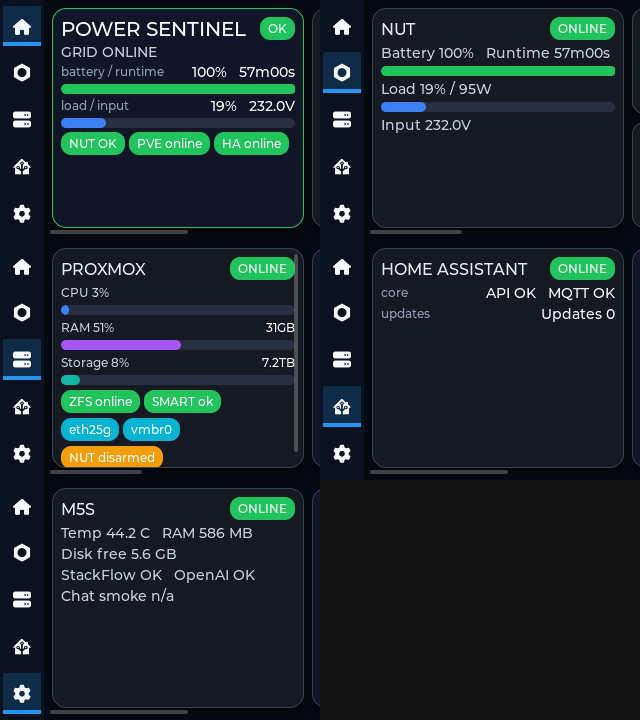
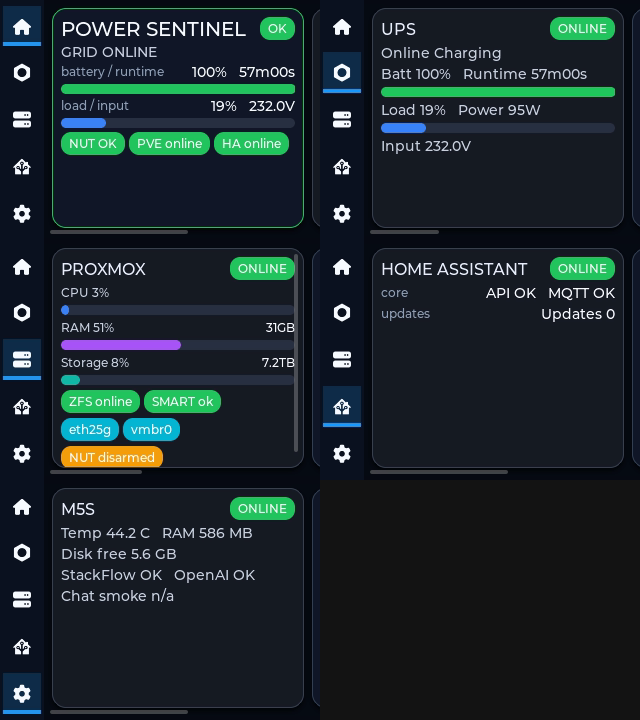
feat: refine NUT tab as mini Nutify carousel
- Split NUT UI into UPS, BATTERY, POWER, and PROTECTION cards
- Render protection client rows dynamically from shutdown.nut_clients
- Keep reachable_via_upsc visually distinct from armed/protected
- Update LVGL fixture, render baselines, and UI contract checks

Verification:
- python3 tools/check_core_s3_ui.py
- python3 tools/run_tests.py
- uvx platformio run -d firmware/core-s3-display
- assets/lvgl-spike/render-via-doomtrain.sh

Changed region(s): [[0.5938, 0.0306, 1.0, 0.2139], [0.6875, 0.3056, 0.7188, 0.3361]]

diff --git a/firmware/core-s3-display/src/main.cpp b/firmware/core-s3-display/src/main.cpp
@@ -945,8 +945,9 @@ const char *nutClientDisplayState(const NutClientCard &client) {
 
 lv_color_t nutClientStateColor(const NutClientCard &client) {
   if (!client.available || strcmp(client.state, "unavailable") == 0) return lv_palette_main(LV_PALETTE_RED);
-  if (client.armed) return lv_palette_main(LV_PALETTE_GREEN);
-  if (strcmp(client.state, "reachable_via_upsc") == 0 || strcmp(client.state, "configured_not_connected") == 0 || strcmp(client.state, "disarmed") == 0) return lv_palette_main(LV_PALETTE_ORANGE);
+  if (client.armed || strcmp(client.state, "connected_as_upsmon") == 0) return lv_palette_main(LV_PALETTE_GREEN);
+  if (strcmp(client.state, "reachable_via_upsc") == 0) return lv_palette_main(LV_PALETTE_BLUE);
+  if (strcmp(client.state, "configured_not_connected") == 0 || strcmp(client.state, "disarmed") == 0) return lv_palette_main(LV_PALETTE_ORANGE);
   return lv_palette_main(LV_PALETTE_GREY);
 }
 
@@ -1144,55 +1145,70 @@ void renderNut() {
                         (!state.ups.available ? lv_palette_main(LV_PALETTE_GREY) :
                          (state.ups.lowBattery ? lv_palette_main(LV_PALETTE_RED) :
                           (state.ups.onBattery ? lv_palette_main(LV_PALETTE_ORANGE) : lv_palette_main(LV_PALETTE_GREEN))));
-  lv_obj_t *card = makeStatusCard(nutTab, "NUT", upsBadge, upsColor);
   char line[128];
   char battery[24];
   char runtime[24];
-  snprintf(line, sizeof(line), "Battery %s   Runtime %s",
-           intOrUnknown(state.ups.batteryPercent, battery, sizeof(battery), "%"),
-           runtimeText(state.ups.runtimeSeconds, runtime, sizeof(runtime)));
-  addLine(card, line);
-  addPercentBar(card, state.ups.batteryPercent, state.ups.lowBattery ? lv_palette_main(LV_PALETTE_RED) : lv_palette_main(LV_PALETTE_GREEN));
   char load[24];
   char watts[24];
   char inputV[24];
-  snprintf(line, sizeof(line), "Load %s / %s",
+  char outputV[24];
+  char batteryV[24];
+
+  lv_obj_t *ups = makeStatusCard(nutTab, "UPS", upsBadge, upsColor);
+  addLine(ups, state.offline ? "Stale Data" : (!state.ups.available ? "No Communication" : (state.ups.lowBattery ? "Low Battery" : (state.ups.onBattery ? "On Battery" : "Online Charging"))));
+  snprintf(line, sizeof(line), "Batt %s   Runtime %s",
+           intOrUnknown(state.ups.batteryPercent, battery, sizeof(battery), "%"),
+           runtimeText(state.ups.runtimeSeconds, runtime, sizeof(runtime)));
+  addLine(ups, line);
+  addPercentBar(ups, state.ups.batteryPercent, state.ups.lowBattery ? lv_palette_main(LV_PALETTE_RED) : lv_palette_main(LV_PALETTE_GREEN));
+  snprintf(line, sizeof(line), "Load %s   Power %s",
            intOrUnknown(state.ups.loadPercent, load, sizeof(load), "%"),
            intOrUnknown(state.ups.loadW, watts, sizeof(watts), "W"));
-  addLine(card, line);
-  addPercentBar(card, state.ups.loadPercent, lv_palette_main(LV_PALETTE_BLUE));
+  addLine(ups, line);
+  addPercentBar(ups, state.ups.loadPercent, lv_palette_main(LV_PALETTE_BLUE));
   snprintf(line, sizeof(line), "Input %s", floatOrUnknown(state.ups.inputVoltage, inputV, sizeof(inputV), "V"));
-  addLine(card, line);
+  addLine(ups, line);
 
-  lv_obj_t *clientsPage = lv_obj_create(nutTab);
-  stylePanel(clientsPage, lv_color_hex(0x111827), lv_color_hex(0x394152));
-  lv_obj_set_style_pad_all(clientsPage, 0, 0);
-  lv_obj_set_style_pad_gap(clientsPage, 8, 0);
-  lv_obj_set_style_border_width(clientsPage, 0, 0);
-  lv_obj_set_style_bg_opa(clientsPage, LV_OPA_TRANSP, 0);
-  lv_obj_set_style_shadow_width(clientsPage, 0, 0);
-  lv_obj_set_scrollbar_mode(clientsPage, LV_SCROLLBAR_MODE_OFF);
+  lv_obj_t *batteryCard = makeCard(nutTab, "BATTERY");
+  snprintf(line, sizeof(line), "Battery Charge %s", intOrUnknown(state.ups.batteryPercent, battery, sizeof(battery), "%"));
+  addLine(batteryCard, line);
+  addPercentBar(batteryCard, state.ups.batteryPercent, state.ups.lowBattery ? lv_palette_main(LV_PALETTE_RED) : lv_palette_main(LV_PALETTE_GREEN));
+  snprintf(line, sizeof(line), "Runtime Remaining %s", runtimeText(state.ups.runtimeSeconds, runtime, sizeof(runtime)));
+  addLine(batteryCard, line);
+  snprintf(line, sizeof(line), "Battery Voltage %s", floatOrUnknown(state.ups.batteryVoltage, batteryV, sizeof(batteryV), "V"));
+  addLine(batteryCard, line);
+  snprintf(line, sizeof(line), "Battery Status %s", state.ups.lowBattery ? "LOW" : (state.ups.available ? "OK" : "UNKNOWN"));
+  addLine(batteryCard, line);
+
+  lv_obj_t *powerCard = makeCard(nutTab, "POWER");
+  snprintf(line, sizeof(line), "Power Usage %s", intOrUnknown(state.ups.loadW, watts, sizeof(watts), "W"));
+  addLine(powerCard, line);
+  snprintf(line, sizeof(line), "System Load %s", intOrUnknown(state.ups.loadPercent, load, sizeof(load), "%"));
+  addLine(powerCard, line);
+  addPercentBar(powerCard, state.ups.loadPercent, lv_palette_main(LV_PALETTE_BLUE));
+  snprintf(line, sizeof(line), "Input Voltage %s", floatOrUnknown(state.ups.inputVoltage, inputV, sizeof(inputV), "V"));
+  addLine(powerCard, line);
+  snprintf(line, sizeof(line), "Output Voltage %s", floatOrUnknown(state.ups.outputVoltage, outputV, sizeof(outputV), "V"));
+  addLine(powerCard, line);
+  snprintf(line, sizeof(line), "Nominal Power %s", intOrUnknown(state.ups.realpowerNominalW, watts, sizeof(watts), "W"));
+  addLine(powerCard, line);
+
+  lv_obj_t *protection = makeStatusCard(nutTab, "PROTECTION", state.shutdown.clientArmed > 0 ? "ARMED" : "DISARMED", state.shutdown.clientArmed > 0 ? lv_palette_main(LV_PALETTE_GREEN) : lv_palette_main(LV_PALETTE_ORANGE));
+  snprintf(line, sizeof(line), "Protection %s", state.shutdown.clientArmed > 0 ? "ARMED" : "DISARMED");
+  addLine(protection, line);
+  snprintf(line, sizeof(line), "Armed %d/%d", state.shutdown.clientArmed, state.shutdown.clientTotal);
+  addLine(protection, line);
+  snprintf(line, sizeof(line), "NUT services: upsd %s driver %s", okDown(state.nut.serverActive), okDown(state.nut.driverActive));
+  addLine(protection, line);
   if (state.shutdown.nutClientCardCount == 0) {
-    makeWorkloadInfoMiniCard(clientsPage, "PRIMARY m5stack", "NUT client data unavailable");
+    addLine(protection, "Client data unavailable");
   } else {
     for (int i = 0; i < state.shutdown.nutClientCardCount; ++i) {
-      makeNutClientMiniCard(clientsPage, state.shutdown.nutClients[i]);
+      const NutClientCard &client = state.shutdown.nutClients[i];
+      snprintf(line, sizeof(line), "%s %s", strcmp(client.role, "primary") == 0 ? "PRI" : "SEC", client.name);
+      addMetricRow(protection, line, nutClientDisplayState(client));
     }
   }
-
-  lv_obj_t *details = makeCard(nutTab, "NUT details");
-  snprintf(line, sizeof(line), "upsd %s   driver %s", okDown(state.nut.serverActive), okDown(state.nut.driverActive));
-  addLine(details, line);
-  snprintf(line, sizeof(line), "clients %d / %d", state.shutdown.clientConnected, state.shutdown.clientTotal);
-  addLine(details, line);
-  snprintf(line, sizeof(line), "NUT upsmon: %s", state.shutdown.nutUpsmonLabel);
-  addLine(details, line);
-  snprintf(line, sizeof(line), "UPS %s", state.ups.model);
-  addLine(details, line);
-  snprintf(line, sizeof(line), "Capacity %s", intOrUnknown(state.ups.realpowerNominalW, watts, sizeof(watts), "W"));
-  addLine(details, line);
-  snprintf(line, sizeof(line), "Unknown %d   Unreach %d", state.shutdown.clientUnknown, state.shutdown.clientUnavailable);
-  addLine(details, line);
 }
 
 void renderHa() {

diff --git a/assets/lvgl-spike/power-sentinel-dashboard-fixture.c b/assets/lvgl-spike/power-sentinel-dashboard-fixture.c
@@ -307,31 +307,35 @@ static lv_obj_t *mini_card(lv_obj_t *parent, const char *title, const char *stat
 
 static void render_nut(lv_obj_t *tab) {
     page(tab);
-    lv_obj_t *c = status_card(tab, "NUT", "ONLINE", 0x22c55e);
-    line(c, "Battery 100%   Runtime 57m00s", 0xc8d0df, &lv_font_montserrat_14);
-    bar(c, 100, 0x22c55e, 10);
-    line(c, "Load 19% / 95W", 0xc8d0df, &lv_font_montserrat_14);
-    bar(c, 19, 0x3b82f6, 10);
-    line(c, "Input 232.0V", 0xc8d0df, &lv_font_montserrat_14);
+    lv_obj_t *ups = status_card(tab, "UPS", "ONLINE", 0x22c55e);
+    line(ups, "Online Charging", 0xc8d0df, &lv_font_montserrat_14);
+    line(ups, "Batt 100%   Runtime 57m00s", 0xc8d0df, &lv_font_montserrat_14);
+    bar(ups, 100, 0x22c55e, 10);
+    line(ups, "Load 19%   Power 95W", 0xc8d0df, &lv_font_montserrat_14);
+    bar(ups, 19, 0x3b82f6, 10);
+    line(ups, "Input 232.0V", 0xc8d0df, &lv_font_montserrat_14);
 
-    lv_obj_t *clients = lv_obj_create(tab);
-    panel(clients, 0x111827, 0x394152);
-    lv_obj_set_style_pad_all(clients, 0, 0);
-    lv_obj_set_style_pad_gap(clients, 8, 0);
-    lv_obj_set_style_border_width(clients, 0, 0);
-    lv_obj_set_style_bg_opa(clients, LV_OPA_TRANSP, 0);
-    lv_obj_set_style_shadow_width(clients, 0, 0);
-    lv_obj_set_scrollbar_mode(clients, LV_SCROLLBAR_MODE_OFF);
-    mini_card(clients, "PRIMARY m5stack", "DISARMED", 0xf59e0b, "local NUT upsmon");
-    mini_card(clients, "SECONDARY pve", "REACHABLE", 0xf59e0b, "downstream client");
+    lv_obj_t *bat = card(tab, "BATTERY");
+    line(bat, "Battery Charge 100%", 0xc8d0df, &lv_font_montserrat_14);
+    bar(bat, 100, 0x22c55e, 10);
+    line(bat, "Runtime Remaining 57m00s", 0xc8d0df, &lv_font_montserrat_14);
+    line(bat, "Battery Voltage 27.2V", 0xc8d0df, &lv_font_montserrat_14);
+    line(bat, "Battery Status OK", 0xc8d0df, &lv_font_montserrat_14);
 
-    lv_obj_t *d = card(tab, "NUT details");
-    line(d, "upsd OK   driver OK", 0xc8d0df, &lv_font_montserrat_14);
-    line(d, "clients 0 / 2", 0xc8d0df, &lv_font_montserrat_14);
-    line(d, "NUT upsmon: DISARMED", 0xc8d0df, &lv_font_montserrat_14);
-    line(d, "UPS Back-UPS ES 850G2", 0xc8d0df, &lv_font_montserrat_14);
-    line(d, "Capacity 500W", 0xc8d0df, &lv_font_montserrat_14);
-    line(d, "Unknown 0   Unreach 0", 0xc8d0df, &lv_font_montserrat_14);
+    lv_obj_t *pwr = card(tab, "POWER");
+    line(pwr, "Power Usage 95W", 0xc8d0df, &lv_font_montserrat_14);
+    line(pwr, "System Load 19%", 0xc8d0df, &lv_font_montserrat_14);
+    bar(pwr, 19, 0x3b82f6, 10);
+    line(pwr, "Input Voltage 232.0V", 0xc8d0df, &lv_font_montserrat_14);
+    line(pwr, "Output Voltage unknown", 0xc8d0df, &lv_font_montserrat_14);
+    line(pwr, "Nominal Power 500W", 0xc8d0df, &lv_font_montserrat_14);
+
+    lv_obj_t *prot = status_card(tab, "PROTECTION", "DISARMED", 0xf59e0b);
+    line(prot, "Protection DISARMED", 0xc8d0df, &lv_font_montserrat_14);
+    line(prot, "Armed 0/2", 0xc8d0df, &lv_font_montserrat_14);
+    line(prot, "NUT services: upsd OK driver OK", 0xc8d0df, &lv_font_montserrat_14);
+    row(prot, "PRI m5stack", "DISARMED");
+    row(prot, "SEC pve", "REACHABLE");
 }
 
 static void render_pve(lv_obj_t *tab) {

diff --git a/tools/check_core_s3_ui.py b/tools/check_core_s3_ui.py
@@ -110,15 +110,26 @@ def main() -> int:
     required_shutdown = [
         "ShutdownState", "nut_upsmon", "nutClients", "clientSummary", "reachable_via_upsc", "connected_as_upsmon",
         "struct NutClientCard", "MAX_NUT_CLIENT_CARDS", "makeNutClientMiniCard", "PRIMARY", "SECONDARY",
-        "NUT upsmon:", "DISARMED", "clients %d / %d", "Capacity", "state.ups.model", "PAGE_CARD_HEIGHT - 8) / 2"
+        "DISARMED", "PAGE_CARD_HEIGHT - 8) / 2"
     ]
     for needle in required_shutdown:
         if needle not in text:
             return fail(f"NUT functional-ready UI missing {needle}")
-    forbidden_shutdown = ["DRY-RUN", "dry-run", "Status: %s (%s)", "mode %s", "owner %s", "NUT shutdown readiness", "primary monitor", "client list:"]
+    required_mini_nutify = [
+        "makeStatusCard(nutTab, \"UPS\"", "Online Charging", "Runtime", "Power", "BATTERY", "Battery Charge",
+        "Battery Voltage", "POWER", "Power Usage", "System Load", "Input Voltage", "PROTECTION",
+        "Protection %s", "state.shutdown.clientArmed", "state.shutdown.clientTotal", "Armed %d/%d", "state.shutdown.nutClients[i]"
+    ]
+    for needle in required_mini_nutify:
+        if needle not in text:
+            return fail(f"Mini Nutify NUT tab missing dynamic semantic marker {needle}")
+    forbidden_shutdown = [
+        "DRY-RUN", "dry-run", "Status: %s (%s)", "mode %s", "owner %s", "NUT shutdown readiness", "primary monitor", "client list:",
+        "NUT details", "NUT upsmon:", "clients %d / %d", "Capacity %s"
+    ]
     for needle in forbidden_shutdown:
         if needle in text:
-            return fail(f"NUT UI still contains ambiguous shutdown wording {needle}")
+            return fail(f"NUT UI still contains ambiguous/details wording {needle}")
 
     if not SPIKE_RENDER_SCRIPT.exists():
         return fail("LVGL MCP visual render harness is missing")
@@ -177,7 +188,7 @@ def main() -> int:
         "lv_obj_set_width(left, total && total[0] ? 132 : lv_pct(100))",
         "lv_obj_set_width(right, 68)",
         "POWER SENTINEL", "PROXMOX", "VM haos", "HOME ASSISTANT", "M5S", "NUT disarmed",
-        "NUT details", "PRIMARY m5stack", "SECONDARY pve", "NUT upsmon: DISARMED", "Capacity 500W",
+        "UPS", "Online Charging", "BATTERY", "Battery Charge", "POWER", "Power Usage", "PROTECTION", "Armed 0/2",
     ]
     for needle in required_dashboard_fixture:
         if needle not in dashboard_fixture:

diff --git a/docs/architecture/core-s3-pages-v1.md b/docs/architecture/core-s3-pages-v1.md
@@ -167,11 +167,12 @@ Purpose: UPS + NUT server operational view.
 
 The NUT tab is strictly an observer/readiness UI. It may show whether the LLM Module primary `upsmon` and configured downstream NUT clients appear ready/armed, but it must not expose arming/disarming, hold/release, or maintenance buttons. Downstream clients such as Proxmox own their own `upsmon` service state; Power Sentinel only reports it. NUT has no native safe remote-control function for disabling all client `upsmon` services, and adding one would require custom SSH/agent/orchestration that the project intentionally excludes.
 
-The `NUT` tab combines horizontal cards for V1d:
+The `NUT` tab uses a Mini Nutify-style horizontal carousel for V1d: Nutify is treated as a terminology and information-hierarchy reference, not as a feature target. The CoreS3 version stays read-only and intentionally omits multi-UPS management, historical databases/charts, reports, UPS commands, remappers, setup wizards, and configuration editing.
 
-1. UPS essentials: synthetic UPS state (`ONLINE`, `ON BATT`, `LOW BATT`, `UNAVAILABLE`, `STALE`), battery/runtime, load/W estimate, and input voltage. Do not expose raw NUT status tokens such as `OL`/`OB`/`LB` on the normal card.
-2. NUT clients: a vertical stack of half-height mini-cards, matching the PVE VM/LXC card rhythm. The backend normalizes the local primary into `shutdown.nut_clients[0]`, so the firmware renders cards in API order: `PRIMARY m5stack` first, then configured secondary clients such as `SECONDARY pve`.
-3. NUT details: `upsd` state, driver state, connected/total client count, explicit `NUT upsmon ARMED` / `NUT upsmon DISARMED`, UPS model, and nominal capacity.
+1. `UPS`: synthetic UPS state (`ONLINE`, `ON BATT`, `LOW BATT`, `UNAVAILABLE`, `STALE`), `Online Charging`/`On Battery` style state text, battery/runtime, load/power W estimate, and input voltage. Do not expose raw NUT status tokens such as `OL`/`OB`/`LB` on the normal card.
+2. `BATTERY`: battery-focused terms from Nutify such as `Battery Charge`, `Runtime Remaining`, `Battery Voltage`, and `Battery Status`.
+3. `POWER`: electrical/load terms such as `Power Usage`, `System Load`, `Input Voltage`, `Output Voltage` when available, and nominal power.
+4. `PROTECTION`: Standard NUT shutdown-readiness, including `upsd`/driver service state plus dynamic `upsmon` client readiness from `shutdown.nut_clients[]`. Client names and counts must come from the API payload, not hardcoded UI assumptions. Summary counts should be phrased as armed/protected clients, not generic client inventory. `reachable_via_upsc` is not `armed` and must not be rendered as fully protected/green.
 
 Next NUT UI pass: keep the tab read-only, but revise the information hierarchy so the actual NUT model is clearer at a glance: `upsd`/driver telemetry is not shutdown automation; primary/secondary are `upsmon` roles; `reachable_via_upsc` is not the same as armed.
 